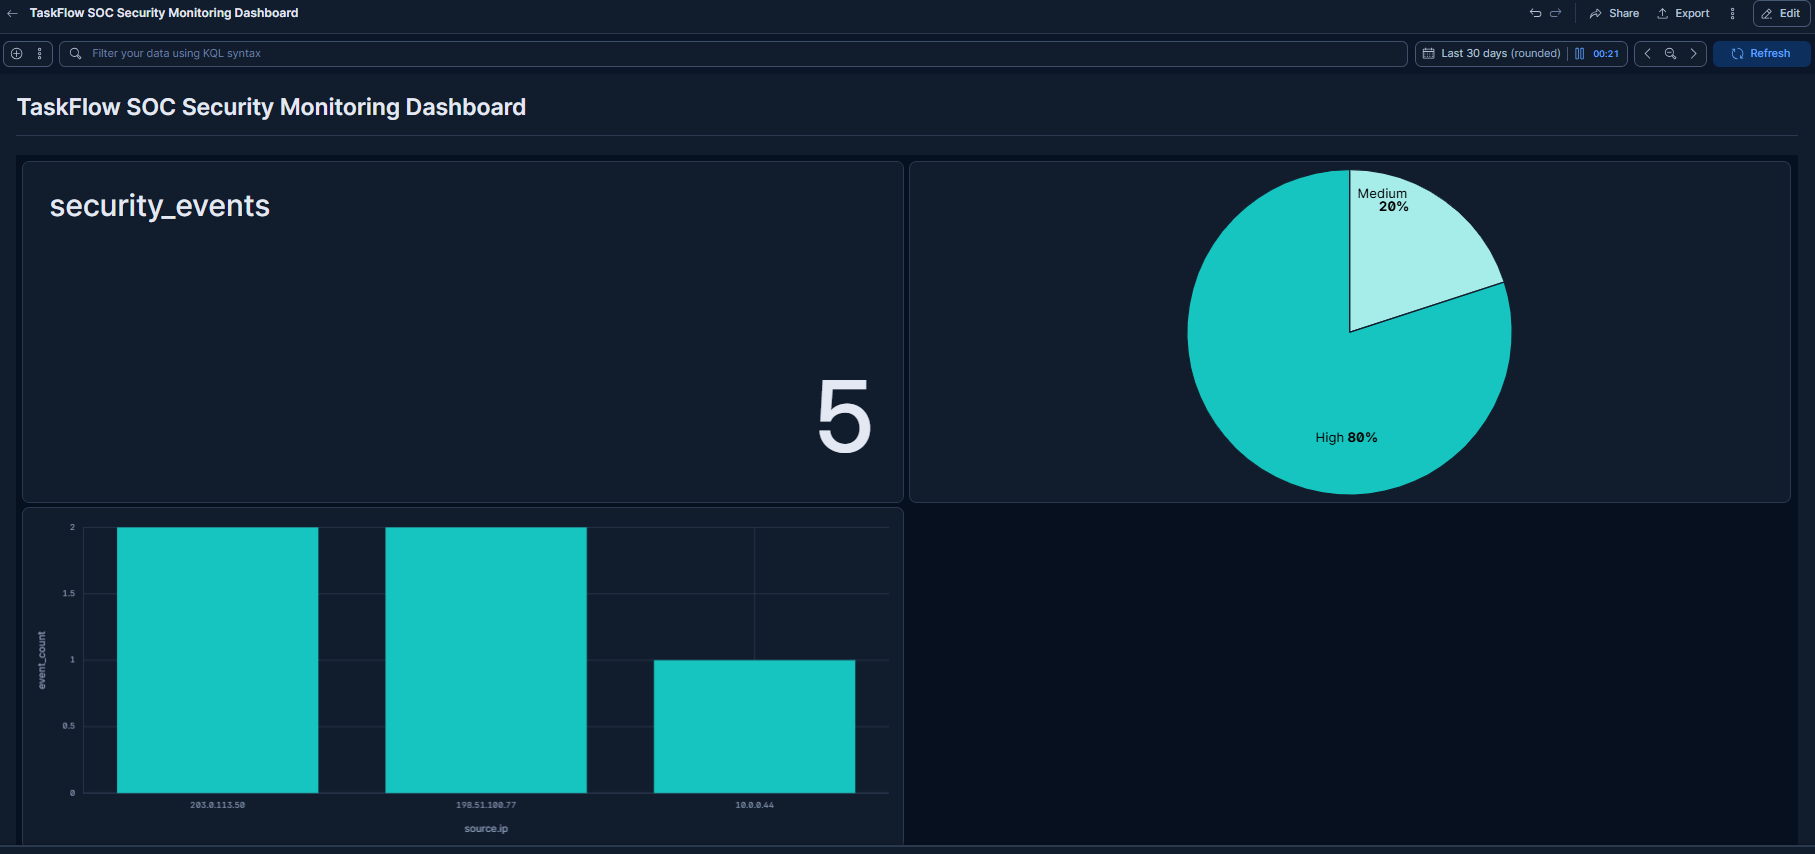
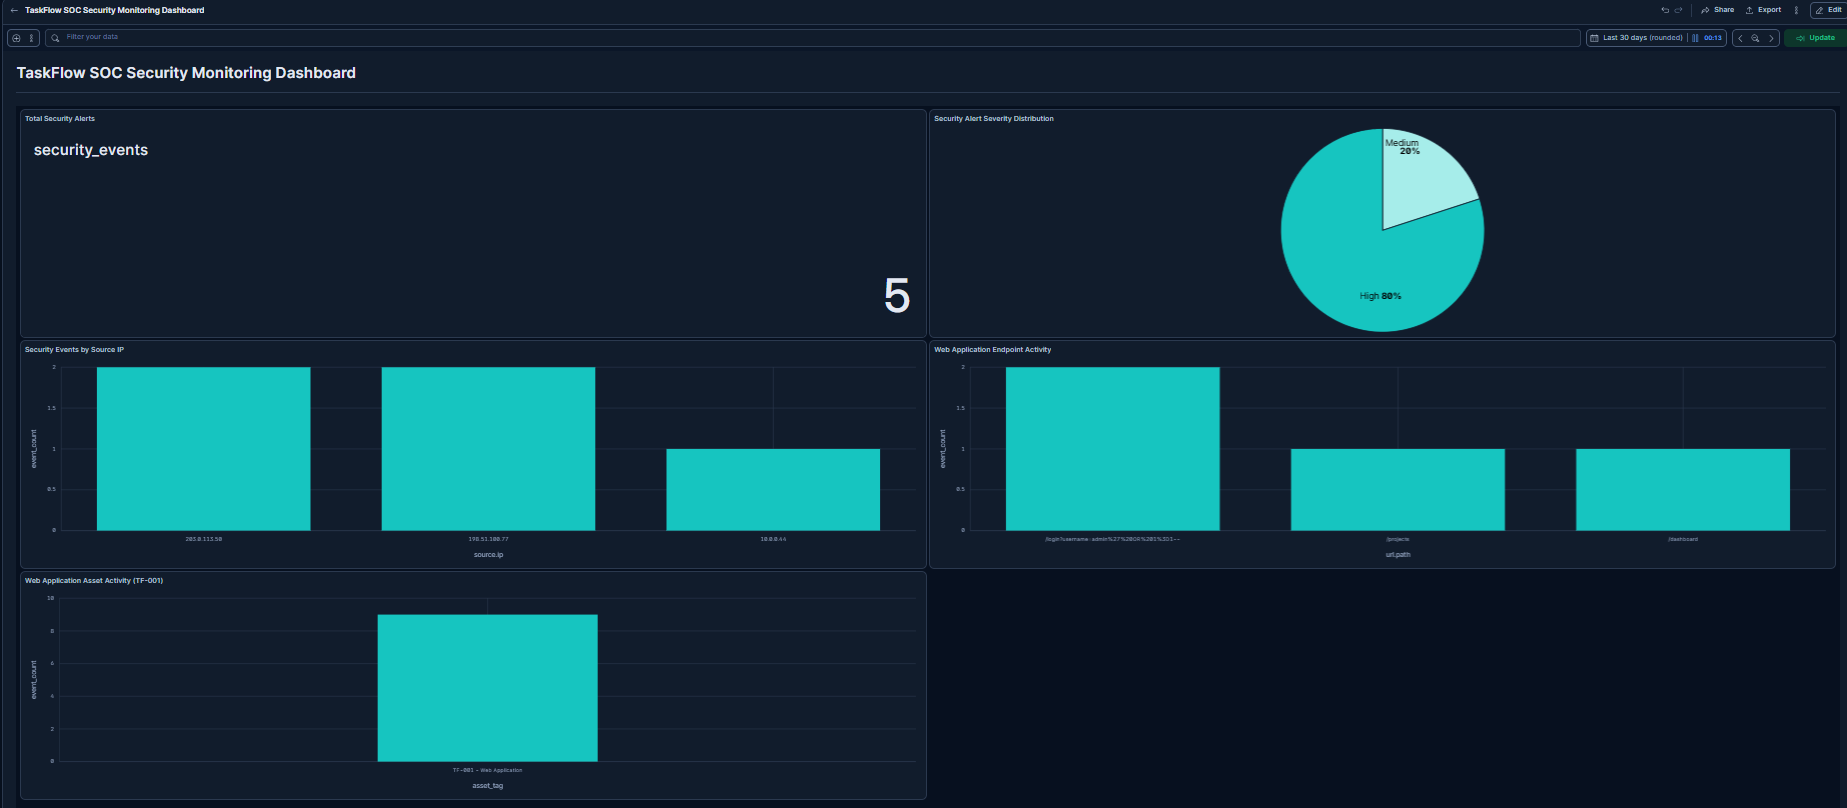
Finalize Task 3 SOC dashboard with asset monitoring and documentation

diff --git a/README.md b/README.md
@@ -143,27 +143,39 @@ event.category:web AND event.action:request AND threat.indicator.type:web\-injec
 The corresponding detection rules are configured and enabled in Kibana using KQL. Screenshots above show their enabled status, index patterns, and deployed queries.
 
 
+
 ## Task 3 - SOC Security Monitoring Dashboard
 
-Created a security monitoring dashboard using Elastic Stack and Kibana.
+Created a security monitoring dashboard using Elastic Stack,
+Elasticsearch, ES|QL, and Kibana.
 
 ### Dashboard Features
 - Security event monitoring
-- Severity distribution visualization
+- Severity distribution pie chart
 - Source IP activity analysis
+- Affected application endpoints visualization
+- Web Application Asset Activity (TF-001)
 - Automatic refresh every 30 seconds
 
 ### Testing Results
 - 18 sample log events analyzed
 - 5 potential security events identified
 - Severity distribution: 80% High, 20% Medium
-- Source IP activity visualized using a bar chart
+- Source IP activity visualized
+- 9 web events associated with TF-001
+- Successfully tested dashboard updates using a simulated event
+- Removed the simulated event after testing
 
 ### Dashboard Evidence
 ![TaskFlow SOC Dashboard](screenshots/taskflow_soc_dashboard.png)
+
+### Investigation Report
+See [Task 3 Incident Investigation](reports/task3_incident_investigation.md).
 
 ### Tools Used
 - Elastic Cloud
 - Kibana
 - Elasticsearch
 - ES|QL
+- GitHub
+- VS Code
